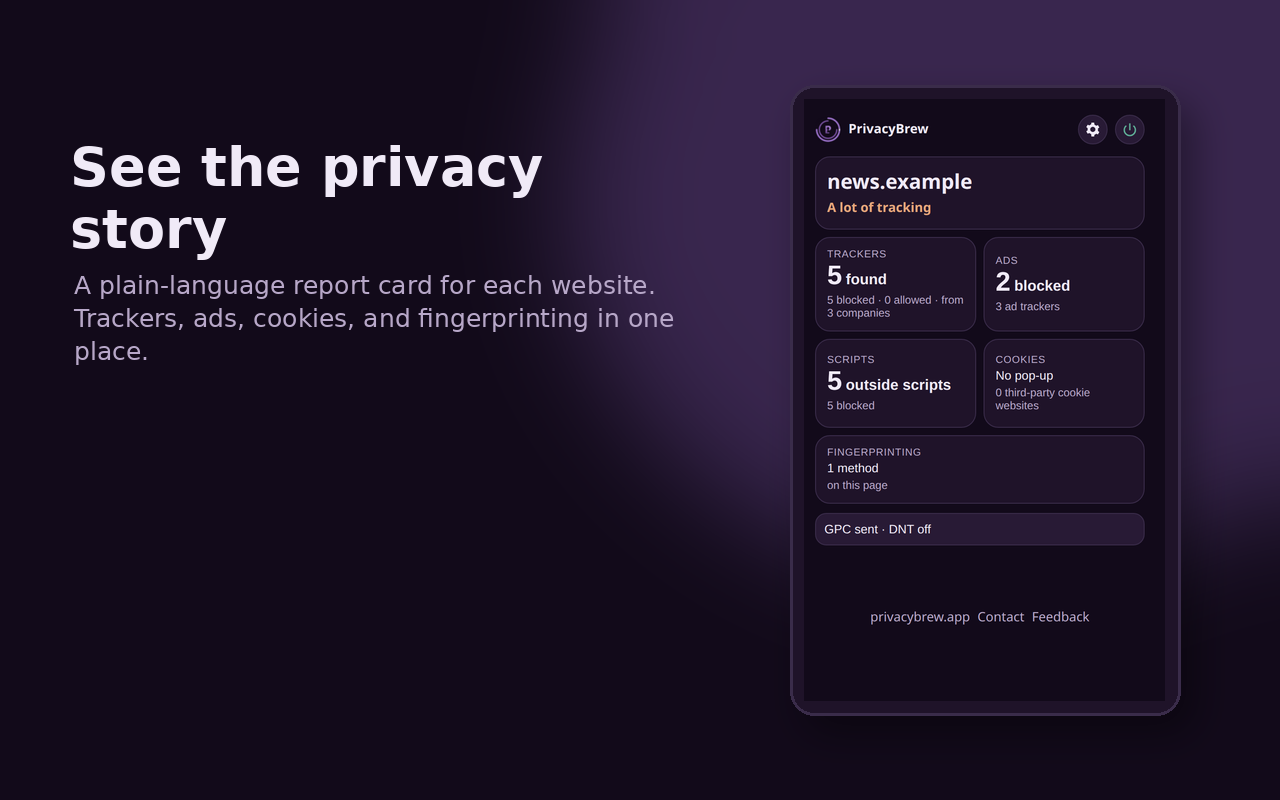
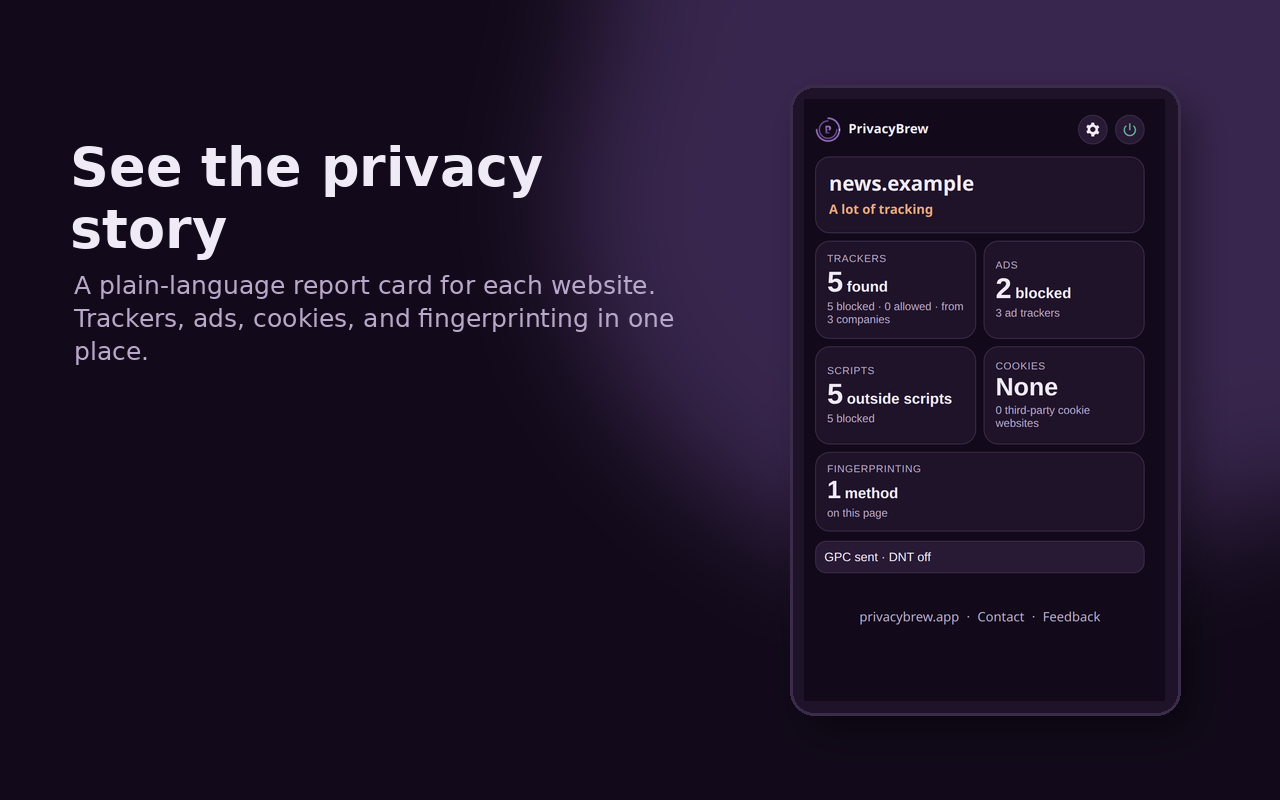
Refine popup layout and power states

diff --git a/extension/popup.html b/extension/popup.html
@@ -17,9 +17,12 @@
     </header>
     <div id="powerMenu" class="menu" hidden>
       <button id="sitePowerButton" type="button">Turn off on this website</button>
-      <button data-temp="15" type="button">Turn off for 15 minutes</button>
-      <button data-temp="60" type="button">Turn off for 1 hour</button>
-      <button data-temp="restart" type="button">Turn off until the browser restarts</button>
+      <button id="forAWhileButton" type="button" aria-expanded="false">Turn off for a while</button>
+      <div id="forAWhileSubmenu" class="submenu" hidden>
+        <button data-temp="15" type="button">15 minutes</button>
+        <button data-temp="60" type="button">1 hour</button>
+        <button data-temp="restart" type="button">Until the browser restarts</button>
+      </div>
       <button id="globalOffButton" type="button">Turn off until I turn it on</button>
     </div>
     <section id="statusBar" class="status-bar" hidden><span id="statusText"></span><button id="statusTurnOn" type="button">Turn on</button></section>
@@ -31,11 +34,11 @@
         <button class="home-card" data-detail="trackers"><span class="group-label">Trackers</span><span class="big"><span id="homeTrackersNumber" class="big-number">0</span><span class="big-word">found</span></span><span id="homeTrackersSub" class="subline">0 blocked · 0 allowed · from 0 companies</span></button>
         <button class="home-card" data-detail="ads"><span class="group-label">Ads</span><span class="big"><span id="homeAdsNumber" class="big-number">0</span><span class="big-word">blocked</span></span><span id="homeAdsSub" class="subline">0 ad trackers</span></button>
         <button class="home-card" data-detail="scripts"><span class="group-label">Scripts</span><span class="big"><span id="homeScriptsNumber" class="big-number">0</span><span class="big-word">outside scripts</span></span><span id="homeScriptsSub" class="subline">0 blocked</span></button>
-        <button class="home-card" data-detail="cookies"><span class="group-label">Cookies</span><span id="homeCookies" class="big">No pop-up</span><span id="homeCookiesSub" class="subline">0 third-party cookie websites</span></button>
-        <button class="home-card wide" data-detail="fingerprinting"><span class="group-label">Fingerprinting</span><span id="homeFingerprint" class="big">None found</span><span class="subline">on this page</span></button>
+        <button class="home-card" data-detail="cookies"><span class="group-label">Cookies</span><span class="big"><span id="homeCookiesValue" class="big-number text-value">None</span></span><span id="homeCookiesSub" class="subline">0 third-party cookie websites</span></button>
+        <button class="home-card wide" data-detail="fingerprinting"><span class="group-label">Fingerprinting</span><span class="big"><span id="homeFingerprintNumber" class="big-number text-value">None</span><span id="homeFingerprintWord" class="big-word"></span></span><span class="subline">on this page</span></button>
       </div>
       <button id="privacyRequestsRow" class="privacy-row" type="button">GPC sent · DNT off</button>
-      <footer class="home-footer"><a href="https://privacybrew.app/extension.html" target="_blank" rel="noreferrer">privacybrew.app</a><a href="mailto:privacybrew@protonmail.com">Contact</a><button id="feedbackButton" type="button">Feedback</button></footer>
+      <footer class="home-footer"><a href="https://privacybrew.app/extension.html" target="_blank" rel="noreferrer">privacybrew.app</a><span>·</span><a href="mailto:privacybrew@protonmail.com">Contact</a><span>·</span><button id="feedbackButton" type="button">Feedback</button></footer>
     </section>
 
     <section id="detailView" class="view" hidden><h2 id="detailTitle">Details</h2><div id="detailContent" class="detail-scroll"></div></section>

diff --git a/extension/popup.css b/extension/popup.css
@@ -40,26 +40,28 @@ html, body {
 .icon-button:focus-visible, button:focus-visible, a:focus-visible { outline: 2px solid var(--accent-2); outline-offset: 2px; }
 .menu { position: absolute; right: 12px; top: 52px; z-index: 5; background: var(--panel); border: 1px solid var(--border); border-radius: 14px; padding: 8px; box-shadow: 0 12px 30px #0008; }
 .menu button { display: block; width: 220px; text-align: left; margin: 4px; }
+.submenu { margin-left: 12px; border-left: 1px solid var(--border); padding-left: 4px; }
+.submenu button { width: 204px; }
 .status-bar, .wall-banner { display: flex; gap: 8px; align-items: center; margin: 8px 0; padding: 8px; border-radius: 12px; background: var(--panel-2); border: 1px solid var(--border); }
 .wall-banner { border-color: var(--warning); }
 .view { height: 510px; overflow: hidden; }
 .hero-card, .home-card, .setting-row, .limits, .detail-card { border: 1px solid var(--border); border-radius: 16px; background: var(--panel); padding: 12px; }
-.hero-card { margin: 8px 0; }
+.hero-card { margin: 8px 0; padding: 14px; }
 .hero-card h1 { font-size: 22px; margin: 0 0 4px; overflow: hidden; text-overflow: ellipsis; }
 .status { font-weight: 800; margin: 0; }
 .status.low { color: var(--accent-2); }
 .status.some { color: var(--accent); }
 .status.high { color: var(--warning); }
 .card-grid { display: grid; grid-template-columns: 1fr 1fr; gap: 8px; }
-.home-card { min-height: 96px; text-align: left; color: var(--text); cursor: pointer; }
-.home-card.wide { grid-column: 1 / -1; min-height: 74px; }
+.home-card { min-height: 106px; text-align: left; color: var(--text); cursor: pointer; }
+.home-card.wide { grid-column: 1 / -1; min-height: 82px; }
 .group-label { display: block; color: var(--text-dim); font-size: 11px; letter-spacing: .05em; text-transform: uppercase; margin-bottom: 3px; }
-.big-number { font-size: 29px; line-height: 1; font-weight: 850; color: var(--text); }
+.big-number { font-size: 31px; line-height: 1; font-weight: 850; color: var(--text); }
 .big-word { font-size: 16px; font-weight: 750; margin-left: 4px; }
 .home-card .subline { display: block; margin-top: 4px; color: var(--text-dim); font-size: 12px; }
 .privacy-row { width: 100%; margin: 10px 0; border: 1px solid var(--border); border-radius: 12px; background: var(--panel-2); color: var(--text); padding: 9px; text-align: left; }
 .home-footer { position: absolute; bottom: 10px; left: 12px; right: 12px; display: flex; justify-content: center; gap: 8px; align-items: center; color: var(--text-dim); }
-.home-footer a, .home-footer button { color: var(--text-dim); background: none; border: 0; padding: 0; font: inherit; text-decoration: none; }
+.home-footer a, .home-footer button, .home-footer span { color: var(--text-dim); background: none; border: 0; padding: 0; font: inherit; text-decoration: none; }
 .home-footer a:hover, .home-footer button:hover { text-decoration: underline; }
 .detail-scroll { height: 462px; overflow: auto; padding-right: 4px; }
 .detail-scroll::-webkit-scrollbar { width: 8px; }
@@ -80,3 +82,9 @@ a { color: var(--accent); }
 label { display: block; margin: 14px 0; }
 .primary { margin-top: 10px; background: var(--accent); color: var(--bg); font-weight: 800; }
 [hidden] { display: none !important; }
+
+.text-value { font-size: 27px; }
+.app:has(#statusBar:not([hidden])) .home-card { min-height: 94px; }
+.app:has(#wallBanner:not([hidden])) .home-card { min-height: 94px; }
+.app:has(#statusBar:not([hidden])) .home-card.wide, .app:has(#wallBanner:not([hidden])) .home-card.wide { min-height: 68px; }
+.app:has(#statusBar:not([hidden])) .hero-card, .app:has(#wallBanner:not([hidden])) .hero-card { padding: 10px; margin: 6px 0; }

diff --git a/extension/popup.js b/extension/popup.js
@@ -115,9 +115,10 @@
     text($('homeAdsSub'), `${report.adTrackerCount || 0} ad trackers`);
     text($('homeScriptsNumber'), String(report.outsideScriptCount || 0));
     text($('homeScriptsSub'), `${off ? 0 : (report.outsideScriptBlockedCount || 0)} blocked`);
-    text($('homeCookies'), cookiePopup.status === 'none' ? 'No pop-up' : cookiePopup.label);
+    text($('homeCookiesValue'), cookiePopup.status === 'none' ? 'None' : cookiePopup.label.replace(' for you', ''));
     text($('homeCookiesSub'), `${(report.cookieDomains || []).length} third-party cookie ${plural((report.cookieDomains || []).length, 'website')}`);
-    text($('homeFingerprint'), fingerprintCount ? `${fingerprintCount} ${plural(fingerprintCount, 'method')}` : 'None found');
+    text($('homeFingerprintNumber'), fingerprintCount ? String(fingerprintCount) : 'None');
+    text($('homeFingerprintWord'), fingerprintCount ? plural(fingerprintCount, 'method') : '');
     text($('privacyRequestsRow'), `${settings.gpcEnabled ? 'GPC sent' : 'GPC off'} · ${settings.dntEnabled ? 'DNT sent' : 'DNT off'}`);
     $('powerButton').classList.toggle('off', off);
   }
@@ -249,6 +250,11 @@
     $('backButton').addEventListener('click', () => showView('home'));
     $('privacyRequestsRow').addEventListener('click', () => showView('settings'));
     $('powerButton').addEventListener('click', togglePowerMenu);
+    $('forAWhileButton').addEventListener('click', () => {
+      const submenu = $('forAWhileSubmenu');
+      submenu.hidden = !submenu.hidden;
+      $('forAWhileButton').setAttribute('aria-expanded', submenu.hidden ? 'false' : 'true');
+    });
     document.addEventListener('keydown', (event) => { if (event.key === 'Escape') closePowerMenu(); });
 
     $('sitePowerButton').addEventListener('click', async () => {

diff --git a/extension/ad-wall.js b/extension/ad-wall.js
@@ -9,10 +9,17 @@
   }
   function scan() {
     try {
+      const knownHidden = document.querySelector('#ADbox');
+      if (knownHidden && getComputedStyle(knownHidden).display === 'none' && (document.documentElement.style.overflow === 'hidden' || document.body.style.overflow === 'hidden')) {
+        document.documentElement.style.overflow = '';
+        document.body.style.overflow = '';
+        chrome.runtime.sendMessage({ type: 'adWall', status: 'hidden' }).catch(() => {});
+        return;
+      }
       const nodes = [...document.querySelectorAll('body *')].slice(0, 700);
       let hidden = false;
       for (const el of nodes) {
-        const text = (el.innerText || '').slice(0, 800);
+        const text = ((el.innerText || el.textContent) || '').slice(0, 800);
         if (!WORDS.test(text)) continue;
         const s = getComputedStyle(el);
         const z = Number.parseInt(s.zIndex || '0', 10) || 0;

diff --git a/tools/run_tests.py b/tools/run_tests.py
@@ -441,7 +441,7 @@ def run_e2e(cdp):
     time.sleep(4)
     hidden_tab_id, _ = storage_report(cdp, sw_session)
     hidden_report = summarize_state(cdp, sw_session, hidden_tab_id)
-    checks.append(('ad wall hidden reports', hidden_report.get('adWall') in ['hidden','detected']))
+    checks.append(('ad wall hidden reports', hidden_report.get('adWall') in ['hidden', 'detected']))
     checks.append(('ad wall hidden restores scroll', eval_value(cdp, hidden_session, "document.body.style.overflow === '' && document.documentElement.style.overflow === ''") is True))
     cdp.call('Runtime.evaluate', {'expression': "setOffUntilRestart(true)", 'awaitPromise': True}, sw_session)
     restart_settings = eval_value(cdp, sw_session, 'getSettings()')
@@ -518,7 +518,7 @@ def run_e2e(cdp):
     checks.append(('popup allowed tile', 'allowed' in popup_text(cdp, popup_session, '#homeTrackersSub')))
     checks.append(('popup ad tile', int(popup_text(cdp, popup_session, '#homeAdsNumber')) >= 0))
     checks.append(('popup outside script tile', popup_text(cdp, popup_session, '#homeScriptsSub').endswith('blocked')))
-    checks.append(('popup fingerprint tile', popup_text(cdp, popup_session, '#homeFingerprint') == '4 methods'))
+    checks.append(('popup fingerprint tile', popup_text(cdp, popup_session, '#homeFingerprintNumber') == '4'))
     time.sleep(0.5)
     shot = cdp.call('Page.captureScreenshot', {'format': 'png', 'captureBeyondViewport': True}, popup_session)['data']
     shot_path = ART / 'pb-ext-popup.png'
@@ -591,7 +591,7 @@ def run_e2e(cdp):
     checks.append(('clean tracker tile zero', popup_text(cdp, clean_popup_session, '#homeTrackersNumber') == '0'))
     checks.append(('clean blocked tile zero', '0 blocked' in popup_text(cdp, clean_popup_session, '#homeTrackersSub')))
     checks.append(('clean allowed tile zero', '0 allowed' in popup_text(cdp, clean_popup_session, '#homeTrackersSub')))
-    checks.append(('clean fingerprint tile none', popup_text(cdp, clean_popup_session, '#homeFingerprint') == 'None found'))
+    checks.append(('clean fingerprint tile none', popup_text(cdp, clean_popup_session, '#homeFingerprintNumber') == 'None'))
     clean_shot = cdp.call('Page.captureScreenshot', {'format': 'png', 'captureBeyondViewport': True}, clean_popup_session)['data']
     clean_shot_path = ART / 'pb-ext-popup-clean.png'
     clean_shot_path.write_bytes(base64.b64decode(clean_shot))
